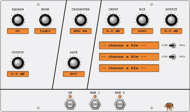
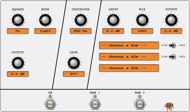
OctoBASS pedal: remove faceplate screws, spread footswitches

diff --git a/plugins/octobass/lv2/bundle/modgui/stylesheet.css b/plugins/octobass/lv2/bundle/modgui/stylesheet.css
@@ -217,7 +217,7 @@
 }
 
 .mod-pedal-octobass .opc-bypass {
-    left: 317.2px;
+    left: 213.2px;
     top: 486.2px;
     width: 94px;
     height: 104px;
@@ -251,7 +251,7 @@
 }
 
 .mod-pedal-octobass .opc-nam2-on {
-    left: 577.2px;
+    left: 681.2px;
     top: 486.2px;
     width: 94px;
     height: 104px;

diff --git a/plugins/octobass/lv2/tools/ModguiAssetRenderer.cpp b/plugins/octobass/lv2/tools/ModguiAssetRenderer.cpp
@@ -10,7 +10,6 @@
 
 #include "LCDPainting.h"
 #include "OctoberLookAndFeel.h"
-#include "PanelPainting.h"
 
 namespace
 {
@@ -41,7 +40,7 @@ constexpr float LeverLabelGap = 2.0f;
 constexpr float LcdHeight = 30.0f;
 constexpr float FootswitchWidth = 56.0f;
 constexpr float FootswitchHeight = 64.0f;
-constexpr float FootswitchSpacing = 100.0f;
+constexpr float FootswitchSpacing = 180.0f;
 constexpr float FootswitchRowCentreX = 380.0f;
 constexpr float FootswitchLabelY = DividerY + 6.0f;
 constexpr float FootswitchY = FootswitchLabelY + LabelHeight;
@@ -52,7 +51,9 @@ constexpr float FileLcdX = RightZoneX + 2.0f;
 constexpr float FileLcdWidth = QualityLeverX - LeverLabelGap - LeverLabelWidth - 8.0f - FileLcdX;
 constexpr float ButtonMargin = 8.0f;
 constexpr int KnobFrames = 65;
-constexpr float VersionTextY = PedalHeight - 15.5f - 5.0f;
+constexpr float FooterCornerCentreY = PedalHeight - 15.5f;
+constexpr float VersionTextY = FooterCornerCentreY - 5.0f;
+constexpr float LogoCentreX = PedalWidth * 0.9f - 4.0f;
 constexpr const char* PedalClass = "mod-pedal-octobass";
 constexpr const char* FilePlaceholder = "-- choose a file --";
 
@@ -456,15 +457,6 @@ juce::Image renderBackground(OctoberLookAndFeel& lookAndFeel, const std::vector<
   g.setColour(juce::Colours::black.withAlpha(0.06f));
   g.drawRoundedRectangle(bounds.reduced(2.5f), cornerRadius, 1.0f);
 
-  const float screwX1 = PedalWidth / 5.0f;
-  const float screwX2 = PedalWidth * 4.0f / 5.0f;
-  const float screwTopY = 15.5f;
-  const float screwBottomY = PedalHeight - 15.5f;
-  drawPanelScrew(g, screwX1, screwTopY);
-  drawPanelScrew(g, screwX2, screwTopY);
-  drawPanelScrew(g, screwX1, screwBottomY);
-  drawPanelScrew(g, screwX2, screwBottomY);
-
   g.setColour(LineColour);
   g.drawLine(LeftLineTopX, 0.0f, lineXAtY(LeftLineTopX, DividerY), DividerY, 3.0f);
   g.drawLine(RightLineTopX, 0.0f, lineXAtY(RightLineTopX, DividerY), DividerY, 3.0f);
@@ -505,8 +497,8 @@ juce::Image renderBackground(OctoberLookAndFeel& lookAndFeel, const std::vector<
     const float logoH = 40.0f;
     const float logoW =
         logoH * static_cast<float>(logo.getWidth()) / static_cast<float>(logo.getHeight());
-    const float logoX = (screwX2 + PedalWidth) * 0.5f - logoW * 0.5f - 4.0f;
-    const float logoY = screwBottomY - logoH * 0.5f - 2.0f;
+    const float logoX = LogoCentreX - logoW * 0.5f;
+    const float logoY = FooterCornerCentreY - logoH * 0.5f - 2.0f;
     g.drawImage(logo, {logoX, logoY, logoW, logoH});
   }
   return image;
